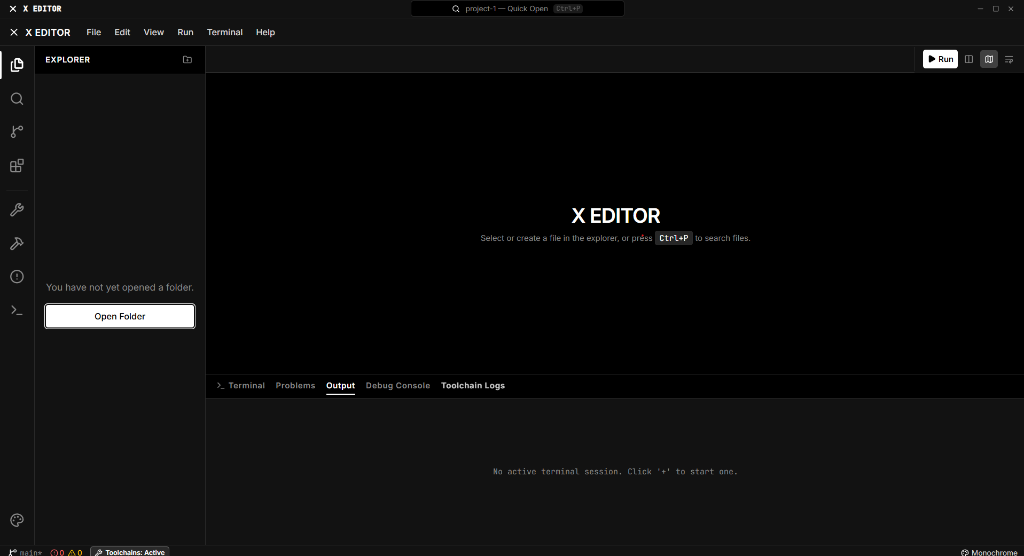
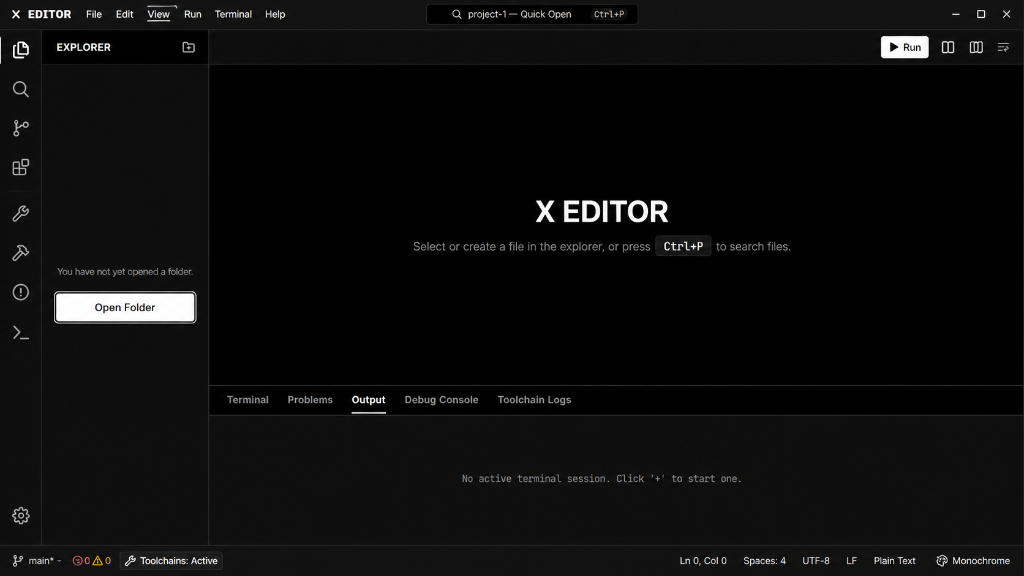
docs: rewrite README with formal structure and fixed architecture diagram

diff --git a/README.md b/README.md
@@ -1,99 +1,118 @@
-# X-Editor — High-Performance Desktop IDE & Advanced Toolchain Management System
+# X-Editor
 
-[![License: MIT](https://img.shields.io/badge/License-MIT-purple.svg)](LICENSE)
-[![Rust Workspace](https://img.shields.io/badge/Rust Core-1.75%2B-orange.svg)](https://www.rust-lang.org/)
-[![React](https://img.shields.io/badge/Frontend-React%2018-blue.svg)](https://react.dev/)
-[![TypeScript](https://img.shields.io/badge/Language-TypeScript%205.3-blue.svg)](https://www.typescriptlang.org/)
-[![Tauri Framework](https://img.shields.io/badge/Desktop Engine-Tauri%20v2-24C8D8.svg)](https://tauri.app/)
-[![Design Tokens](https://img.shields.io/badge/Design-Black%20%26%20Violet-8b5cf6.svg)](https://tailwindcss.com/)
+**A High-Performance, Local-First Desktop IDE with Integrated Toolchain Management**
 
-**X-Editor** is an enterprise-grade, local-first code editor and development environment engineered for maximum execution speed, deep toolchain control, and zero-latency code navigation. Built on a strongly decoupled architecture combining **React 18**, **TypeScript**, **Tailwind CSS v4**, **Monaco Editor**, and **Tauri v2 IPC** with a multi-crate **Rust Core Engine**, X-Editor delivers workstation-class desktop IDE capabilities paired with custom runtime management.
+[![License: MIT](https://img.shields.io/badge/License-MIT-yellow.svg)](LICENSE)
+[![Rust Core](https://img.shields.io/badge/Rust%20Core-1.75%2B-orange.svg)](https://www.rust-lang.org/)
+[![Frontend](https://img.shields.io/badge/Frontend-React%2018%20%2B%20TypeScript-61DAFB.svg)](https://react.dev/)
+[![Desktop Engine](https://img.shields.io/badge/Desktop%20Engine-Tauri%20v2-24C8D8.svg)](https://tauri.app/)
 
 ![X-Editor Interface Preview](docs/assets/x-editor-preview.png)
 
 ---
 
-## 🏛 Executive Summary & System Philosophy
+## Overview
 
-Standard code editors isolate runtime management from the editor layer, forcing developers to rely on separate CLI tools (`nvm`, `pyenv`, `rustup`) and manual configuration files. 
+X-Editor is a local-first code editor engineered for execution speed, deep toolchain control, and zero-latency code navigation. It combines a React 18 / TypeScript / Tailwind CSS v4 / Monaco Editor frontend with a multi-crate Rust core, connected through Tauri v2 IPC, to deliver a workstation-class desktop IDE with native runtime management built in.
 
-**X-Editor** unifies code editing and runtime lifecycle management into a single native application:
-- **Local-First Security**: Enforces sandboxed file access validation (`x-security`) preventing unauthorized disk access.
-- **Asynchronous IPC Subsystem**: Offloads terminal streaming, file watching, and compiler processes (`x-process`, `x-filesystem`) to background OS threads without blocking the 60fps UI loop.
-- **Active Environment Resolution**: Continuously validates project declarations (e.g., `package.json` engines, `.python-version`, `Cargo.toml`) against active system runtimes and offers one-click automated remediation.
+Conventional editors treat runtime management as an external concern, requiring developers to coordinate separate CLI tools (`nvm`, `pyenv`, `rustup`) alongside their editor. X-Editor removes that separation by unifying code editing and runtime lifecycle management within a single native application.
+
+### Design Goals
+
+| Goal | Implementation |
+|---|---|
+| **Local-first security** | Sandboxed file access validation via the `x-security` crate, preventing unauthorized disk access |
+| **Non-blocking I/O** | Terminal streaming, file watching, and compiler processes run on background OS threads (`x-process`, `x-filesystem`), preserving a 60fps UI loop |
+| **Active environment resolution** | Continuous validation of project manifests (`package.json` engines, `.python-version`, `Cargo.toml`) against installed system runtimes, with one-click remediation |
 
 ---
 
-## 📖 Comprehensive System Walkthrough & User Guide
+## Feature Guide
 
-### 1. Black & Violet Theme Token System
-X-Editor features a custom-engineered Black & Violet design system defined in a centralized token schema ([themeTokens.ts](file:///c:/Users/bhara/OneDrive/Desktop/project-1/apps/desktop/frontend/src/styles/themeTokens.ts)):
-- **Editor Background**: `#0e0e14` (Deep obsidian)
-- **Sidebar & Surface Panels**: `#141019` (Low-contrast dark violet)
-- **Primary Accent**: `#8b5cf6` (Signature violet highlight)
-- **Custom Monaco Token Mapping**: Keywords (`#a855f7`), Strings (`#c4b5fd`), Functions (`#d8b4fe`), Types/Classes (`#e9d5ff`), Comments (`#7a7590`), Numbers (`#c084fc`), and Variables (`#e4e0f0`).
+### 1. Theming — Black & Violet Design System
 
-* **How to use**: Click the **Theme** icon (Palette) at the bottom of the Activity Bar to open the **Color Theme Picker** modal and switch between *Purple Dark*, *Cyberpunk Midnight*, and *Light Modern*.
+A custom design token schema (`themeTokens.ts`) drives the editor's visual language:
 
-### 2. Multi-Pane Code Editing & Navigation
-- **Split Editor View (`Ctrl+\`)**: Divide the central workspace into dual side-by-side Monaco editor instances for simultaneous multi-file editing.
-- **Tab Management**: Supports pinned tabs, unsaved dirty-state indicators (`•`), and close-on-hover actions.
-- **Breadcrumb Navigation Bar**: Interactive file path hierarchy bar rendered directly below tabs for rapid parent-directory traversal.
-- **Minimap & Bracket Pair Colorization**: Real-time code structure visualization along the right edge of the editor.
+| Element | Color | Value |
+|---|---|---|
+| Editor background | Deep obsidian | `#0e0e14` |
+| Sidebar / surface panels | Low-contrast dark violet | `#141019` |
+| Primary accent | Signature violet | `#8b5cf6` |
+| Keywords | | `#a855f7` |
+| Strings | | `#c4b5fd` |
+| Functions | | `#d8b4fe` |
+| Types / classes | | `#e9d5ff` |
+| Comments | | `#7a7590` |
+| Numbers | | `#c084fc` |
+| Variables | | `#e4e0f0` |
 
-### 3. Command Palette & Quick File Open
-- **Command Palette (`Ctrl+Shift+P` / `F1`)**: Centered modal overlay supporting fuzzy search across all internal IDE commands, build tasks, toolchain detections, and preferences.
-- **Quick Open (`Ctrl+P`)**: Dedicated file navigation search with instant workspace path matching.
+Switch themes via the **Palette** icon in the Activity Bar, which opens the Color Theme Picker with **Purple Dark**, **Cyberpunk Midnight**, and **Light Modern** presets.
 
-### 4. Advanced Toolchain Management Engine
-- **Runtime Discovery**: Automatically detects installed system compilers and runtimes including Node.js, Python, Rust (`cargo`/`rustc`), Go, and GCC/MinGW.
-- **Version Mismatch Resolution**: Automatically flags mismatches between project manifests and currently active environment toolchains.
-- **One-Click Fix Button**: Activates the required runtime version and generates a synchronized `.toolchain.json` file in the workspace root.
-- **Toolchain Logs Panel**: Real-time installation, compilation, and environment synchronization logs streamed under the **Toolchain Logs** tab in the bottom drawer.
+### 2. Multi-Pane Editing & Navigation
+
+- **Split Editor View** (`Ctrl+\`) — dual side-by-side Monaco instances for simultaneous multi-file editing
+- **Tab management** — pinned tabs, dirty-state indicators (`•`), close-on-hover
+- **Breadcrumb navigation** — interactive file path hierarchy below the tab bar
+- **Minimap & bracket-pair colorization** — real-time structural visualization along the editor's right edge
+
+### 3. Command Palette & Quick Open
+
+- **Command Palette** (`Ctrl+Shift+P` / `F1`) — fuzzy search across IDE commands, build tasks, toolchain detections, and preferences
+- **Quick Open** (`Ctrl+P`) — instant file navigation by workspace path
+
+### 4. Toolchain Management Engine
+
+- **Runtime discovery** — automatic detection of installed compilers and runtimes (Node.js, Python, Rust via `cargo`/`rustc`, Go, GCC/MinGW)
+- **Version mismatch resolution** — flags discrepancies between project manifests and active toolchains
+- **One-click fix** — activates the required runtime version and writes a synchronized `.toolchain.json` to the workspace root
+- **Toolchain logs panel** — streams installation, compilation, and sync logs to the bottom drawer
 
 ### 5. Integrated Terminal & Development Panels
-- **Multi-Tab Terminal (`Ctrl+\``)**: Embedded terminal drawer running native PowerShell and CMD child process sessions with interactive stdin/stdout streaming.
-- **Compiler Problem Matcher**: Parses compiler output (GCC, `rustc`, `tsc`) and populates the **Problems** panel. Clicking any problem entry auto-scrolls the Monaco editor to the exact error line and column.
-- **Source Control (Git)**: Dedicated side panel tracking branch status (`main*`), staged/unstaged file diffs, and inline commit/push operations.
-- **Extensions Marketplace**: Manage development extensions (Rust Analyzer, C/C++ IntelliSense, Python, Tailwind CSS).
+
+- **Multi-tab terminal** (`` Ctrl+` ``) — embedded PowerShell/CMD sessions with interactive stdin/stdout streaming
+- **Compiler problem matcher** — parses GCC, `rustc`, and `tsc` output into the Problems panel; clicking an entry jumps the editor to the exact line and column
+- **Source control (Git)** — branch status, staged/unstaged diffs, and inline commit/push
+- **Extensions marketplace** — manage development extensions (Rust Analyzer, C/C++ IntelliSense, Python, Tailwind CSS)
 
 ---
 
-## 🏗 System Architecture
+## System Architecture
 
 ```mermaid
 graph TD
-    User([Developer User]) --> UI[React 18 + Tailwind v4 + Monaco Editor UI]
-    UI --> Stores[Zustand State Stores<br/>DocumentStore | TaskStore | ToolchainStore | WorkspaceStore | TerminalStore]
+    User([Developer]) --> UI[React 18 + Tailwind v4 + Monaco Editor UI]
+    UI --> Stores[Zustand State Stores]
     Stores --> IPC[Typed IPC Service Layer]
-    IPC --> Tauri[Tauri v2 IPC Native Commands & Events]
-    
-    subgraph Core Engine Modules (Rust)
-        Tauri --> XCore[crates/x-core<br/>Task Runner & Toolchain Resolver]
-        XCore --> XSecurity[crates/x-security<br/>Path Validation & Sandboxing]
-        XCore --> XFilesystem[crates/x-filesystem<br/>File I/O, Search & File Watcher]
-        XCore --> XProcess[crates/x-process<br/>Async Process Execution & Stream Manager]
+    IPC --> Tauri[Tauri v2 IPC — Native Commands & Events]
+
+    subgraph RustCore [Core Engine — Rust Workspace]
+        Tauri --> XCore["x-core — Task Runner & Toolchain Resolver"]
+        XCore --> XSecurity["x-security — Path Validation & Sandboxing"]
+        XCore --> XFilesystem["x-filesystem — File I/O, Search & Watcher"]
+        XCore --> XProcess["x-process — Async Process Execution & Streams"]
     end
 
-    XProcess --> OS[Host OS Process Execution<br/>Node.js / Python / Rustc / GCC / Cargo]
+    XProcess --> OS[Host OS Processes — Node.js / Python / rustc / GCC / Cargo]
     XFilesystem --> Disk[Host File System]
 ```
 
+**State layer:** `DocumentStore`, `TaskStore`, `ToolchainStore`, `WorkspaceStore`, `TerminalStore` (Zustand)
+
 ---
 
-## 📁 Repository Structure
+## Repository Structure
 
 ```
 .
 ├── apps/
 │   └── desktop/
 │       ├── frontend/          # React 18, TypeScript, Tailwind CSS v4, Monaco Editor UI
-│       └── src-tauri/         # Tauri v2 Desktop entry point & Rust IPC command handlers
+│       └── src-tauri/         # Tauri v2 entry point & Rust IPC command handlers
 ├── crates/
-│   ├── x-core/                # Task runner graph resolver, problem matcher & toolchain engine
-│   ├── x-filesystem/          # Local file operations, recursive search & file watcher
-│   ├── x-process/             # Async process execution & stdout/stderr stream manager
-│   └── x-security/           # Workspace trust policies & path validation sandbox
+│   ├── x-core/                # Task runner, problem matcher, toolchain engine
+│   ├── x-filesystem/          # File operations, recursive search, file watcher
+│   ├── x-process/             # Async process execution & stdout/stderr streaming
+│   └── x-security/            # Workspace trust policies & path validation sandbox
 ├── .toolchain.json            # Project toolchain environment configuration
 ├── .x-editor/                 # Workspace-specific task and editor settings
 └── Cargo.toml                 # Workspace Cargo manifest
@@ -101,38 +120,46 @@ graph TD
 
 ---
 
-## 🛠 Getting Started
+## Getting Started
 
-### System Requirements
-- **Operating System**: Windows 10/11, macOS, or Linux
-- **Node.js**: v18.0.0 or higher
-- **Rust Toolchain**: `cargo` 1.75+
-- **C/C++ Compiler**: MinGW-w64 (Windows GCC) or Clang
+### Prerequisites
 
-### Installation & Execution
+| Requirement | Version |
+|---|---|
+| Operating System | Windows 10/11, macOS, or Linux |
+| Node.js | ≥ 18.0.0 |
+| Rust toolchain | `cargo` ≥ 1.75 |
+| C/C++ compiler | MinGW-w64 (Windows) or Clang |
 
-1. **Clone the Repository**:
-   ```bash
-   git clone https://github.com/Iamshi-vissa/X-Editor.git
-   cd X-Editor
-   ```
+### Installation
 
-2. **Install Frontend Dependencies**:
-   ```bash
-   npm install
-   ```
+```bash
+git clone https://github.com/Iamshi-vissa/X-Editor.git
+cd X-Editor
+npm install
+```
 
-3. **Launch Desktop Application in Development Mode**:
-   ```powershell
-   # PowerShell Environment Command
-   $env:PATH="C:\msys64\mingw64\bin;" + $env:PATH; $env:WINDRES="C:\msys64\mingw64\bin\windres.exe"; npx @tauri-apps/cli dev
-   ```
+### Running in Development Mode
+
+**Windows (PowerShell):**
+
+```powershell
+$env:PATH = "C:\msys64\mingw64\bin;" + $env:PATH
+$env:WINDRES = "C:\msys64\mingw64\bin\windres.exe"
+npx @tauri-apps/cli dev
+```
+
+**macOS / Linux:**
+
+```bash
+npx @tauri-apps/cli dev
+```
 
 ---
 
-## 🧪 Verification & Test Suite
+## Testing
 
-Run unit tests across all core Rust crates (`x-core`, `x-security`, `x-process`, `x-filesystem`):
+Run the unit test suite across all core Rust crates:
 
 ```bash
 cargo test -p x-core -p x-security -p x-process -p x-filesystem
@@ -140,6 +167,6 @@ cargo test -p x-core -p x-security -p x-process -p x-filesystem
 
 ---
 
-## 📄 License
+## License
 
 Distributed under the MIT License. See [LICENSE](LICENSE) for full details.
